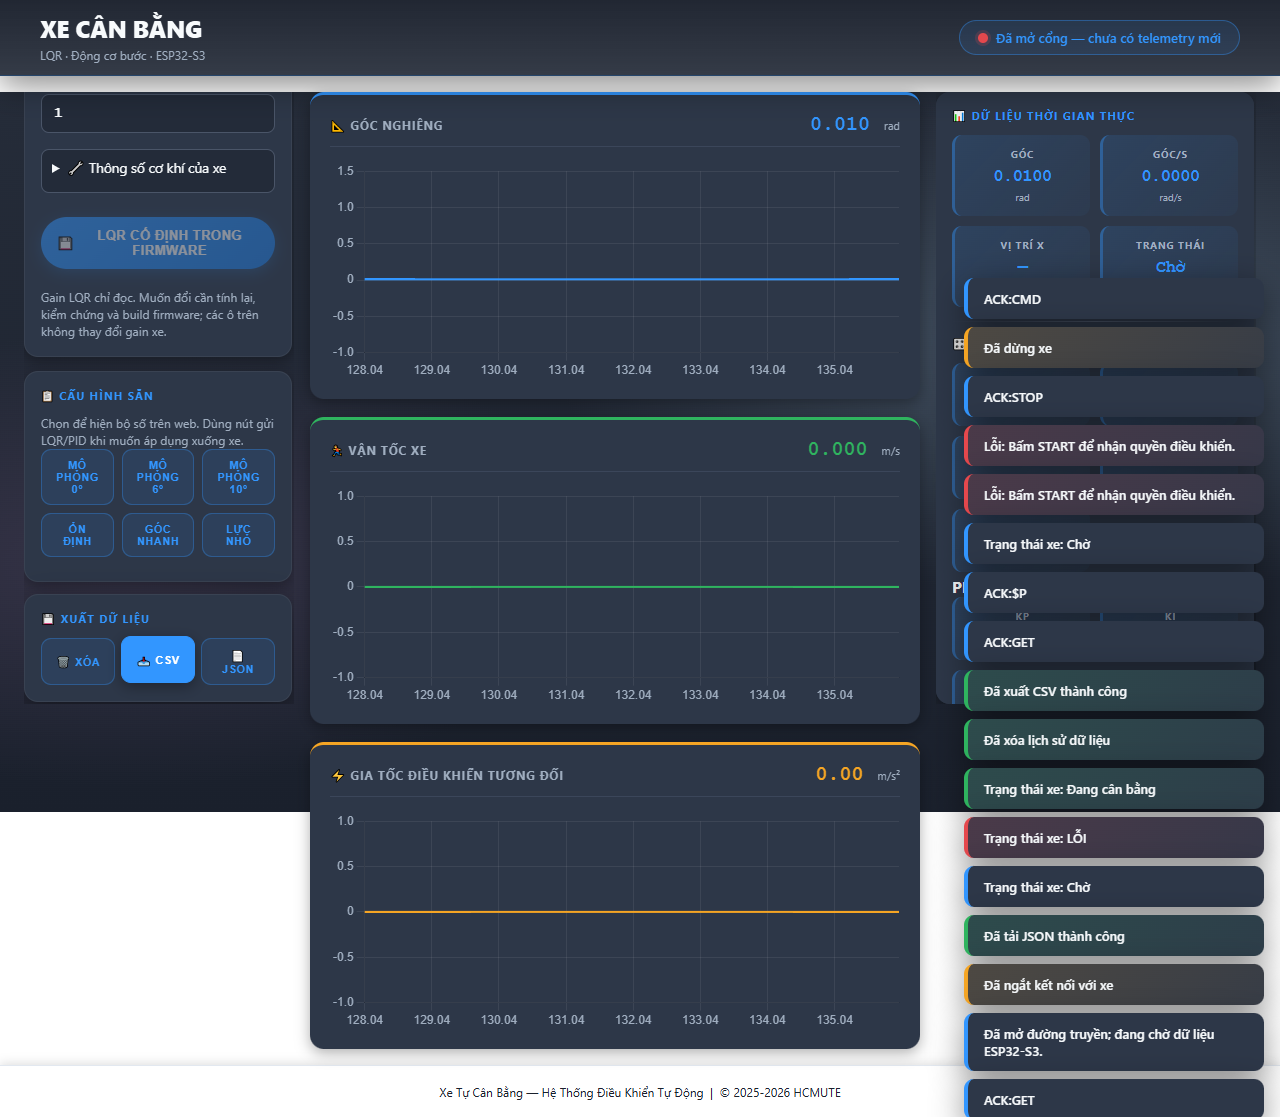
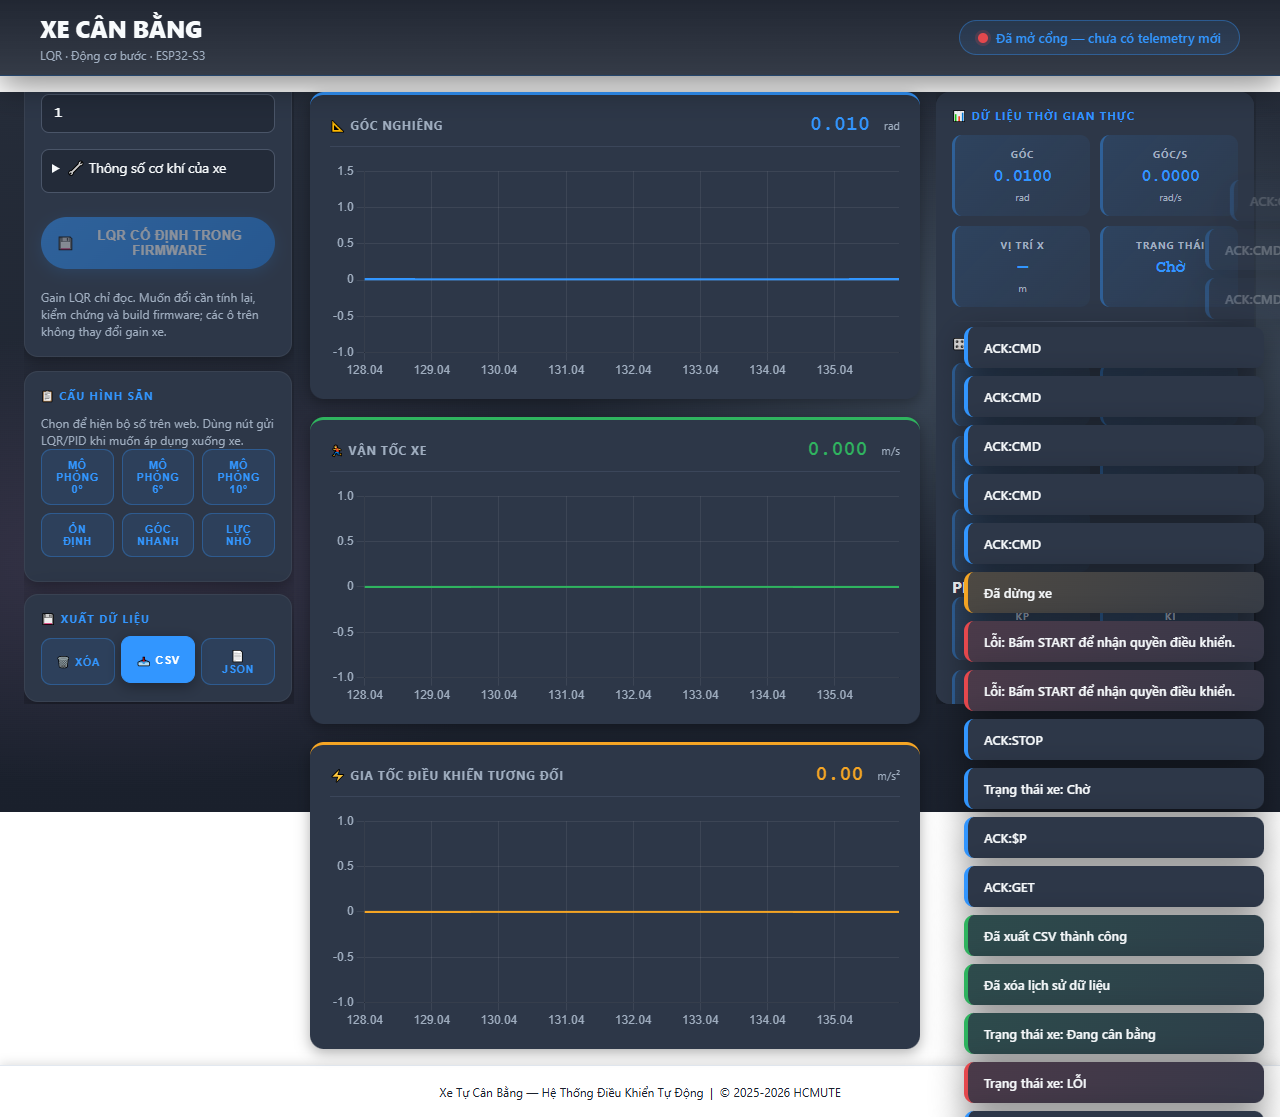
chỉnh lần cuối

diff --git a/4_Web/web_server.js b/4_Web/web_server.js
@@ -138,6 +138,14 @@ function createBridge(options = {}) {
       catch { reconnect(); }
     },Math.min(1000*2**retryCount++,8000));
   }
+  function connectionError(e) {
+    if (e.code === 'EACCES' || e.code === 'EPERM') {
+      // Permission failures will not improve with a reconnect loop.
+      wanted=null;clearTimeout(retry);retry=null;
+      return new Error('EACCES/EPERM: tiến trình server bị từ chối quyền mở kết nối. Đóng đúng server dự án rồi mở lại bằng 4_Web/Mo_Web.cmd từ File Explorer. Nếu dùng 192.168.4.1:8080, máy cần nối Wi-Fi BalanceBot-Bench.');
+    }
+    return e;
+  }
   async function open(address, baudRate = 115200) {
     if (typeof address !== 'string' || address.length > 128 || /[\r\n]/.test(address)) throw Error('Cổng không hợp lệ.');
     if (!Number.isInteger(baudRate) || ![115200,230400,460800,921600].includes(baudRate)) throw Error('Baud không hợp lệ.');
@@ -166,7 +174,12 @@ function createBridge(options = {}) {
         if(token!==generation){mine.close();fail(new Error('Kết nối đã hủy.'));return;}
         mine.open=true;settled=true;clearTimeout(timeout);io.emit('serialConnected',{port:address});write('GET');emitState();resolve();
       });
-      stream.on('error',e=>{fail(e);io.emit('serialError',e.message);});
+      stream.on('error',e=>{
+        const opened=mine.open, cause=connectionError(e);
+        fail(cause);
+        // Initial open failures are reported by the caller; avoid duplicate toasts.
+        if(opened)io.emit('serialError',cause.message);
+      });
       stream.on('close',()=>{
         fail(new Error('Kết nối đã đóng.'));
         if(link!==mine)return;

diff --git a/4_Web/tests/api.test.js b/4_Web/tests/api.test.js
@@ -63,3 +63,28 @@ test('web rejects live LQR mutation instead of publishing gains', async t => {
   const forbidden = await fetch('http://127.0.0.1:13007/api/lqr',{headers:{Origin:'https://evil.invalid'}});
   assert.equal(forbidden.status,403);
 });
+
+test('permission failure is reported once and does not retry', async t => {
+  const net=require('node:net');
+  const {EventEmitter}=require('node:events');
+  const {createBridge}=require('../web_server');
+  const bridge=createBridge({port:13018});
+  const socket=new EventEmitter();socket.id='permission-test';
+  bridge.io.listeners('connection')[0](socket);
+  const errors=[];socket.on('serialError',e=>errors.push(e));
+  let attempts=0;
+  t.mock.method(net,'createConnection',()=>{
+    attempts++;
+    const s=new EventEmitter();s.setNoDelay=()=>{};s.destroy=()=>s.emit('close');
+    setImmediate(()=>{const e=new Error('connect EACCES');e.code='EACCES';s.emit('error',e);s.emit('close');});
+    return s;
+  });
+  const broadcasts=[];t.mock.method(bridge.io,'emit',(name,...args)=>broadcasts.push([name,...args]));
+  t.after(()=>bridge.close());
+  socket.emit('connectSerial',{port:'tcp:192.168.4.1:8080'});
+  await delay(1200);
+  assert.equal(attempts,1);
+  assert.equal(errors.length,1);
+  assert.match(errors[0],/Mo_Web.cmd/);
+  assert.equal(broadcasts.filter(x=>x[0]==='serialError').length,0);
+});

diff --git a/TOM_TAT_TOAN_BO_DE_TAI.md b/TOM_TAT_TOAN_BO_DE_TAI.md
@@ -349,3 +349,6 @@ Web thay thanh trượt bằng Tiến/Lùi (5 cm/s), Trái/Phải (20 độ/s), 
 
 ### PID vận tốc mặc định 3/1/0.2 và khung bốn nút (12/11/2026)
 Đã đổi đúng pid.velocity trong shared/robot.json và chạy generator đồng bộ design/header; các hằng số khác (kể cả LQR/yaw) nguyên giá trị. Khung điều khiển chung Tiến/Lùi/Xoay trái/Xoay phải, nhấn giữ/thả về 0. Kiểm thử config3/3, host C++, web3/3 và build ESP32-S3 vừa chạy PASS; chưa nạp/chạy motor. Xem 06_KiemThu/pid_default_3102/KET_QUA.md. Cần firmware mới + restart server + CtrlF5; tuning/zero NVS mang hash cũ sẽ không được nạp, kiểm tra lại zero trước thử. Thay đổi ControlCore.cpp tự bật motion sau Arming từ bước trước vẫn giữ nguyên, không thêm chỉnh thuật toán trong bước này.
+
+### Lỗi TCP EACCES (12/11/2026)
+Ảnh báo EACCES trước telemetry; kiểm tra mạng có quyền: PC đang nối Kingshouse-4.3_5G, bắt tay TCP192.168.4.1:8080 timeout (không gửi lệnh). Chưa chứng minh firewall hay firmware lỗi. Server open() phát lỗi hai lần (stream và caller); sửa chỉ caller báo lỗi mở ban đầu, EACCES/EPERM ngừng reconnect và giải thích quyền tiến trình/Wi-Fi AP. Test API/browser mới 4/4 PASS với lỗi quyền giả lập. Khởi động lại duy nhất server đã kiểm chứng PID11448 (nội dung dashboard trùng local, status disconnected), server mới PID14268 chạy absolute path ngoài sandbox; không kết nối hoặc START xe. Kết nối phần cứng chờ PC nối BalanceBot-Bench rồi thử lại; không tắt firewall.
